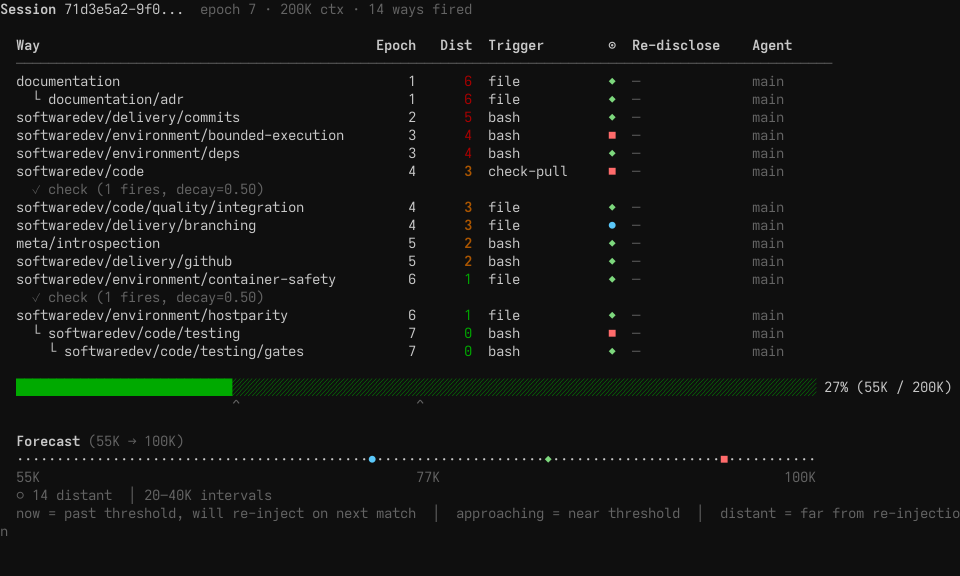
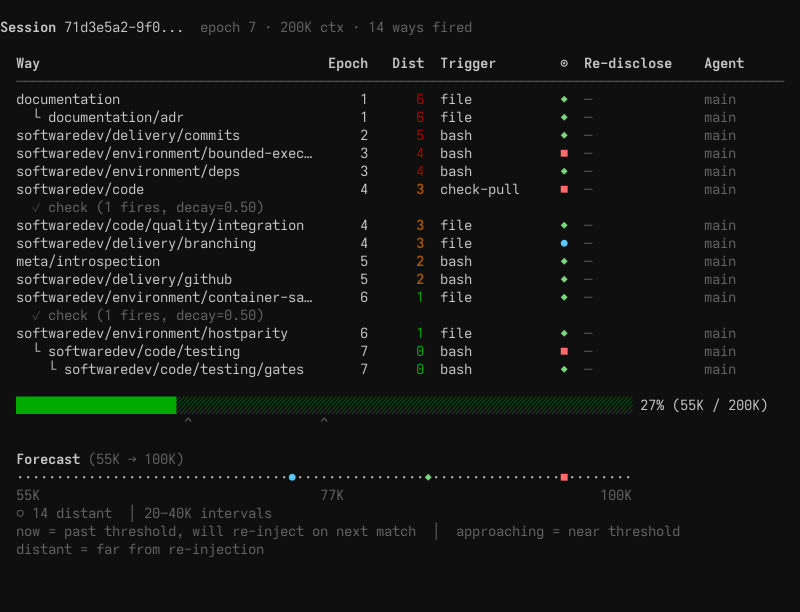
fix(ways): fit the session gauge, mark fires with ↩, list every settings tab
`ways session ways` sized its bar to the terminal less the indent and
then appended a ` NN% (NK / NK)` label, so the gauge line and the
legend wrapped at every width. The bar now leaves room for the widest
label, and the zone and legend lines break between their items. A
test renders the timeline at 80, 100 and 160 columns.

The fires tab marks a re-disclosure with ↩, as the timeline does;
↻ is missing from common terminal fonts. The JSON keeps ↻.

`ways settings [TAB]` takes its possible values from the tab registry,
so --help and the error list attend and sensors and cannot drift.

The README recording note gives the new size and covers live follow;
the session-ways and fires screenshots are retaken.

diff --git a/tools/ways-cli/src/cmd/render.rs b/tools/ways-cli/src/cmd/render.rs
@@ -45,6 +45,9 @@ const AGENT_W: usize = 12;
 /// keeps Epoch/Dist/Trigger/… from reading as one crowded block.
 const COL_GAP: usize = 2;
 const INDENT: usize = 2;
+/// The room the token gauge leaves after its bar for its label,
+/// ` 100% (1000K / 1000K)`, so the gauge line fits the terminal.
+const GAUGE_LABEL_W: usize = 21;
 
 /// Nominal visible width of the fixed Epoch…Agent block that trails the Way
 /// column, inter-column gaps included. It's the reservation the ceiling clamp
@@ -86,10 +89,14 @@ fn display_id_width<W: WayRow>(w: &W) -> usize {
 pub struct Layout {
     /// Width of the Way ID column
     pub way_col: usize,
-    /// Width of the progress/forecast bar
+    /// Width of the progress/forecast bar: the terminal less the indent and
+    /// the gauge's label
     pub bar_width: usize,
     /// Total separator width
     pub separator: usize,
+    /// The terminal width the layout was made for; the timeline's text lines
+    /// fit within it
+    pub width: usize,
 }
 
 impl Layout {
@@ -116,9 +123,9 @@ impl Layout {
         // Never let the Way column crowd the trailing columns off the terminal.
         let ceiling = term_w.saturating_sub(INDENT + TRAILING_W).max(WAY_MIN);
         let way_col = snap_up(max_id_width + 1, WAY_TAB).clamp(WAY_MIN, ceiling);
-        let bar_width = term_w.saturating_sub(INDENT + 4).clamp(30, 200);
+        let bar_width = term_w.saturating_sub(INDENT + GAUGE_LABEL_W).clamp(10, 200);
         let separator = term_w.saturating_sub(INDENT + 2);
-        Layout { way_col, bar_width, separator }
+        Layout { way_col, bar_width, separator, width: term_w }
     }
 
     /// Reactive layout sized to the widest way id in `ways` (depth-indent prefix
@@ -296,15 +303,16 @@ pub fn write_way_row_with<W: WayRow>(
 
 // ── Token timeline ────────────────────────────────────────────
 
-/// Render the full token timeline: usage bar, forecast, zone summary.
+/// Render the full token timeline: usage bar, forecast, zone summary, each
+/// line within `layout.width`.
 pub fn write_token_timeline<W: WayRow>(
     out: &mut String,
     ways: &[W],
     unique_pos: &[usize],
     current_tokens_k: u64,
     context_window_k: u64,
+    layout: &Layout,
 ) {
-    let layout = Layout::detect();
     let bar_width = layout.bar_width;
 
     let pct = (current_tokens_k * 100).checked_div(context_window_k).unwrap_or(0).min(100);
@@ -481,18 +489,46 @@ pub fn write_token_timeline<W: WayRow>(
                 format!("{min}–{max}K intervals")
             }
         };
-        let _ = writeln!(
-            out,
-            "  {}  {}",
-            zones.join("  "),
-            paint(Role::Muted, format!("│ {interval_label}"))
-        );
-        let _ = writeln!(
-            out,
-            "  {}",
-            paint(Role::Muted, "now = past threshold, will re-inject on next match  │  approaching = near threshold  │  distant = far from re-injection")
-        );
+        zones.push(paint(Role::Muted, format!("│ {interval_label}")));
+        let room = layout.width.saturating_sub(INDENT);
+        for line in fit_items(&zones, "  ", room) {
+            let _ = writeln!(out, "  {line}");
+        }
+        let legend: Vec<String> = [
+            "now = past threshold, will re-inject on next match",
+            "approaching = near threshold",
+            "distant = far from re-injection",
+        ]
+        .iter()
+        .map(|t| paint(Role::Muted, *t))
+        .collect();
+        for line in fit_items(&legend, &paint(Role::Muted, "  │  "), room) {
+            let _ = writeln!(out, "  {line}");
+        }
     }
+}
+
+/// `items` joined by `sep` into as few lines as fit in `width` visible
+/// columns, an item never split: one too wide for any line stands alone.
+fn fit_items(items: &[String], sep: &str, width: usize) -> Vec<String> {
+    let sep_w = agent_fmt::visible_len(sep);
+    let mut lines: Vec<String> = Vec::new();
+    let mut used = 0;
+    for item in items {
+        let w = agent_fmt::visible_len(item);
+        match lines.last_mut() {
+            Some(line) if used + sep_w + w <= width => {
+                line.push_str(sep);
+                line.push_str(item);
+                used += sep_w + w;
+            }
+            _ => {
+                lines.push(item.clone());
+                used = w;
+            }
+        }
+    }
+    lines
 }
 
 // ── Shared helpers ────────────────────────────────────────────
@@ -677,6 +713,57 @@ mod tests {
         for c in &cells {
             assert!(agent_fmt::visible_len(c) <= RD_W, "{c:?} is wider than {RD_W}");
         }
+    }
+
+    /// A way fired at `token_k` with its own refire window.
+    struct Fired {
+        token_k: u64,
+        window_k: u64,
+    }
+
+    impl WayRow for Fired {
+        fn id(&self) -> &str { "d/w" }
+        fn epoch_fired(&self) -> u64 { 1 }
+        fn token_pos(&self) -> u64 { self.token_k * 1000 }
+        fn trigger(&self) -> &str { "keyword" }
+        fn check_fires(&self) -> u64 { 0 }
+        fn refire_threshold_k(&self) -> u64 { self.window_k }
+    }
+
+    /// The gauge, forecast, zones and legend each fit the terminal: the
+    /// bar leaves room for the gauge's widest label, and the zone and legend
+    /// lines break between their items rather than wrap.
+    #[test]
+    fn the_token_timeline_fits_the_terminal() {
+        let p = agent_theme::Painter::terminal(agent_theme::ColorDepth::TrueColor);
+        let _g = agent_theme::scoped(p);
+        // One way of each zone, and a window that makes the label its widest.
+        let ways = [
+            Fired { token_k: 0, window_k: 20 },
+            Fired { token_k: 900, window_k: 120 },
+            Fired { token_k: 960, window_k: 400 },
+        ];
+        for width in [80, 100, 160] {
+            let layout = Layout::for_id_width_in(3, width);
+            let pos = compute_bar_positions_in(&ways, 1000, layout.bar_width);
+            let unique = unique_positions(&pos);
+            let mut out = String::new();
+            write_token_timeline(&mut out, &ways, &unique, 1000, 1000, &layout);
+            assert!(out.contains("100% (1000K / 1000K)"), "{out}");
+            assert!(out.contains("approaching = near threshold"), "{out}");
+            for line in out.lines() {
+                let w = agent_fmt::visible_len(line);
+                assert!(w <= width, "{w} columns at {width}: {line:?}");
+            }
+        }
+    }
+
+    #[test]
+    fn fit_items_breaks_between_items() {
+        let items: Vec<String> = ["aaaa", "bbbb", "cccc"].iter().map(|s| s.to_string()).collect();
+        assert_eq!(fit_items(&items, " | ", 100), vec!["aaaa | bbbb | cccc"]);
+        assert_eq!(fit_items(&items, " | ", 11), vec!["aaaa | bbbb", "cccc"]);
+        assert_eq!(fit_items(&items, " | ", 2), vec!["aaaa", "bbbb", "cccc"]);
     }
 
     #[test]

diff --git a/tools/ways-cli/src/cmd/settings/tui/mod.rs b/tools/ways-cli/src/cmd/settings/tui/mod.rs
@@ -567,6 +567,12 @@ fn title(ctx: &Ctx, view: Option<&str>) -> String {
     format!(" ways settings — {}{view} ", tilde(&ctx.project, &ctx.home))
 }
 
+/// The screens' tabs in order: the settings tabs, then theme. `ways
+/// settings [TAB]` takes these names.
+pub fn tab_names() -> Vec<&'static str> {
+    TABS.iter().map(|t| t.name).chain(["theme"]).collect()
+}
+
 pub fn app(ways: Ways, tab: Option<&str>, depth: ColorDepth) -> Result<App, Failure> {
     let layers = ways.layers();
     let roots = ways.build(&layers);
@@ -574,8 +580,7 @@ pub fn app(ways: Ways, tab: Option<&str>, depth: ColorDepth) -> Result<App, Fail
     let shape = ways.value("theme.shape", &layers).and_then(|v| v.as_str().map(Shape::named)).unwrap_or(Shape::PLAIN);
     let themes = Themes::new(ways.ctx.themes.clone(), depth, active).home(ways.ctx.home.clone());
     let title = title(&ways.ctx, None);
-    let mut names: Vec<&str> = TABS.iter().map(|t| t.name).collect();
-    names.push("theme");
+    let names = tab_names();
     let at = match tab {
         None => 0,
         Some(t) => names.iter().position(|n| *n == t).ok_or_else(|| fail(exit::USAGE, format!("no tab {t}; the tabs are {}", names.join(", "))))?,

diff --git a/tools/ways-cli/src/cmd/introspect/fires_tab.rs b/tools/ways-cli/src/cmd/introspect/fires_tab.rs
@@ -66,7 +66,7 @@ impl Fires {
             Paragraph::new(Line::from(vec![
                 Span::styled("Session ", Style::new().add_modifier(Modifier::BOLD)),
                 Span::raw(super::short_id(session)),
-                Span::styled("  lowest score first · ↻ a re-disclosure", theme::muted()),
+                Span::styled("  lowest score first · ↩ a re-disclosure", theme::muted()),
             ])),
             head,
         );
@@ -83,7 +83,7 @@ impl Fires {
                 .map(|x| {
                     Row::new(vec![
                         right(format!("{:.3}", x.score)),
-                        Cell::from(if x.redisclosed { "↻" } else { " " }),
+                        Cell::from(if x.redisclosed { "↩" } else { " " }),
                         Cell::from(x.way.clone()),
                         Cell::from(Span::styled(x.surface.clone(), theme::muted())),
                     ])

diff --git a/tools/ways-cli/src/cmd/introspect/tests.rs b/tools/ways-cli/src/cmd/introspect/tests.rs
@@ -686,7 +686,7 @@ fn the_fires_tab_lists_the_sessions_semantic_fires() {
     press(&mut s, &[KeyCode::Char('2')]);
     let t = text(&render(&mut s, 80, 25));
     assert!(t.contains("2 semantic fires"), "{t}");
-    let adr = t.find("0.405 ↻ softwaredev/docs/adr").expect("the re-disclosure, its surface a placeholder");
+    let adr = t.find("0.405 ↩ softwaredev/docs/adr").expect("the re-disclosure, its surface a placeholder");
     let testing = t.find("0.612   softwaredev/code/testing").expect("the first fire");
     assert!(adr < testing, "lowest score first: {t}");
     assert!(t.contains("add a unit test") && !t.contains("itops/incident"), "{t}");

diff --git a/tools/ways-cli/src/main.rs b/tools/ways-cli/src/main.rs
@@ -43,7 +43,8 @@ enum Commands {
     /// key, 3 rejected, 4 overridden, 5 write failed
     #[command(disable_help_subcommand = true, args_conflicts_with_subcommands = true)]
     Settings {
-        /// Open the screens on this tab: ways, matching, gate, install or theme
+        /// Open the screens on this tab
+        #[arg(value_parser = clap::builder::PossibleValuesParser::new(cmd::settings::tui::tab_names()))]
         tab: Option<String>,
         /// The project whose .claude/ways.yaml the screens read and write
         #[arg(long)]

diff --git a/tools/ways-cli/tests/settings_tui.rs b/tools/ways-cli/tests/settings_tui.rs
@@ -376,7 +376,7 @@ fn bare_settings_in_a_pipe_prints_list_and_a_tab_needs_a_terminal() {
     assert!(err.contains("need a terminal"), "{err}");
     let (_, err, code) = fx.run(&["settings", "nope", "--snap", "80x25"]);
     assert_eq!(code, 2);
-    assert!(err.contains("no tab nope; the tabs are ways, matching, gate, install, attend, sensors, theme"), "{err}");
+    assert!(err.contains("invalid value 'nope'") && err.contains("[possible values: ways, matching, gate, install, attend, sensors, theme]"), "{err}");
 }
 
 #[test]

diff --git a/tools/ways-cli/src/cmd/list.rs b/tools/ways-cli/src/cmd/list.rs
@@ -174,7 +174,7 @@ pub fn run(session: Option<&str>, sort: &str, json_out: bool, matched: bool) -> 
         let _ = writeln!(out);
         render::write_token_timeline(
             &mut out, &ways, &unique_pos,
-            current_tokens_k, context_window_k,
+            current_tokens_k, context_window_k, &layout,
         );
     }
 

diff --git a/README.md b/README.md
@@ -48,11 +48,11 @@ sequenceDiagram
 
 ### Session replay with `ways session replay`
 
-`ways session replay` replays a completed session's way-firing history as an interactive TUI animation. Each frame shows a way firing at a specific point in the conversation — you can see how guidance clusters near the active attention cursor and packs into the context window like a compression pattern.
+`ways session replay` replays a session's way-firing history frame by frame, and follows a live session as it writes. Each frame shows a way firing at a specific point in the conversation — you can see how guidance clusters near the active attention cursor and packs into the context window like a compression pattern.
 
 [<img src="docs/images/ways-introspect.gif" alt="ways session replay — each frame shows a way firing, guidance clusters near the attention cursor and packs like a compression pattern as context fills" width="800" />](docs/images/ways-introspect.mp4)
 
-<sub>The preview above is downscaled. [Download the full-resolution recording](docs/images/ways-introspect.mp4) (2.5MB MP4) to read the way names and re-disclosure percentages.</sub>
+<sub>[Download the recording](docs/images/ways-introspect.mp4) (228K MP4).</sub>
 
 Semantic matching runs on your machine through the **embedding engine** (all-MiniLM-L6-v2, a ~21MB GGUF model). It handles similarity of meaning: "pin lockfile versions" matches the supply chain way even though those exact words are absent from the way's vocabulary. `ways status` reports the matcher's current calibration.
 

diff --git a/docs/reference/ways-cli.md b/docs/reference/ways-cli.md
@@ -370,7 +370,7 @@ A click on the scrubber seeks to that frame, and the wheel there steps one.
 
 ![the fires tab: five semantic fires, lowest score first](../images/ways/session-fires.png)
 
-Each semantic fire of the session as score, way and the surface it matched, lowest score first, so a fire on the wrong text stands out. `↻` marks a re-disclosure. Keyword and state fires carry no score and are not listed. ↑↓ selects a row.
+Each semantic fire of the session as score, way and the surface it matched, lowest score first, so a fire on the wrong text stands out. `↩` marks a re-disclosure. Keyword and state fires carry no score and are not listed. ↑↓ selects a row.
 
 #### Spend tab
 
